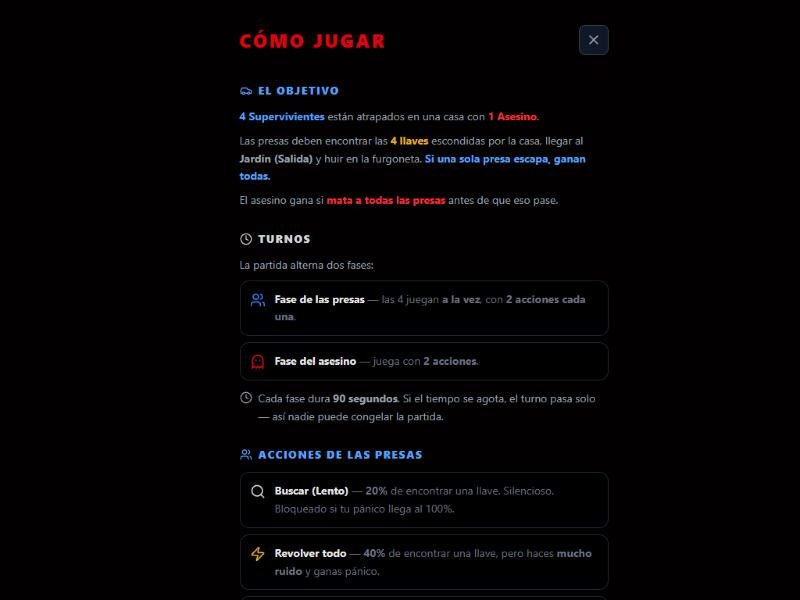
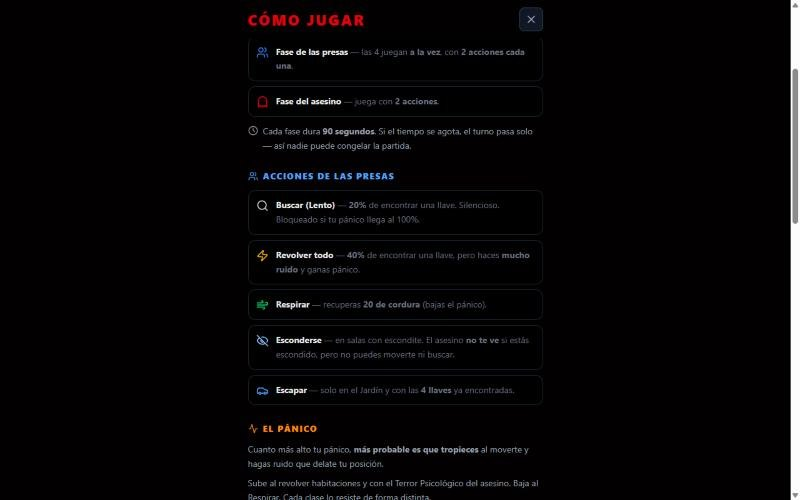
Capturas reales de Slasher, sin recortes, y URL nueva del juego
El juego ya esta renombrado, asi que se sustituyen los recortes por
capturas tomadas directamente de el a 800x500 (16:10 nativo, entran
enteras sin cortar nada):

  titulo.jpg      pantalla de titulo
  menu.jpg        menu principal
  sala.jpg        pantalla online: crear sala o entrar con codigo (nueva)
  como-jugar.jpg  reglas, con las cinco acciones de las presas

portada.jpg pasa a ser la imagen oficial del juego (public/og-image.jpg)
y slasher.png el icono oficial (public/icon-512.png). Se retira casa.jpg,
que era un recorte, y con el el apano de aspect-ratio/object-fit: ya no
hace falta porque todas las capturas comparten proporcion.

La galeria pasa a 2x2 para que las cuatro quepan sin huecos y se vean
al doble de tamano; a una columna por debajo de 700px.

El enlace de jugar apunta ahora a slasher-juego.vercel.app, la direccion
nueva tras el renombrado.

El proyecto del juego no se ha tocado: solo se ha ejecutado en local
para capturar y se han copiado dos imagenes de public/.

diff --git a/Slasher/index.html b/Slasher/index.html
@@ -194,7 +194,12 @@
         .sl-ficha span { color: #a99e9e; font-size: 0.87rem; line-height: 1.6; }
 
         /* Capturas */
-        .sl-galeria { display: grid; grid-template-columns: repeat(auto-fit, minmax(290px, 1fr)); gap: 1.3rem; margin-top: 3rem; }
+        /* Cuatro capturas en 2x2: se ven grandes y la rejilla no deja huecos */
+        .sl-galeria { display: grid; grid-template-columns: repeat(2, 1fr); gap: 1.3rem; margin-top: 3rem; }
+
+        @media (max-width: 700px) {
+            .sl-galeria { grid-template-columns: 1fr; }
+        }
 
         .sl-galeria figure {
             margin: 0;
@@ -204,17 +209,8 @@
             border: 1px solid rgba(224, 31, 40, 0.22);
         }
 
-        /* Las capturas vienen con proporciones distintas: una caja comun las iguala */
-        .sl-galeria img {
-            width: 100%;
-            aspect-ratio: 16 / 10;
-            object-fit: cover;
-            display: block;
-            transition: transform 0.5s ease;
-        }
-
-        /* La pantalla de reglas es texto: cabe entera, con banda negra a los lados */
-        .sl-galeria img.entera { object-fit: contain; }
+        /* Capturas del juego a 800x500: entran enteras, sin recortar nada */
+        .sl-galeria img { width: 100%; height: auto; display: block; transition: transform 0.5s ease; }
         .sl-galeria figure:hover img { transform: scale(1.04); }
 
         .sl-galeria figcaption {
@@ -312,7 +308,7 @@
         <h1 class="sl-titulo">SLASHER</h1>
         <p class="sl-lema">4 presas. 1 asesino. Una casa de la que no se sale.</p>
         <div class="sl-botonera">
-            <a href="https://shlasher.vercel.app" target="_blank" rel="noopener" class="sl-btn sl-btn--jugar">
+            <a href="https://slasher-juego.vercel.app" target="_blank" rel="noopener" class="sl-btn sl-btn--jugar">
                 <i class="fas fa-play"></i> Jugar ahora
             </a>
             <a href="#reglas" class="sl-btn sl-btn--fantasma">
@@ -341,7 +337,7 @@
 
         <div class="sl-galeria">
             <figure>
-                <img src="../img/slasher/casa.jpg" alt="La casa de Slasher bajo una luna llena naranja, con el árbol seco del jardín." loading="lazy">
+                <img src="../img/slasher/titulo.jpg" alt="Pantalla de título de Slasher: el logo en rojo sobre la casa, la luna llena y el cementerio." loading="lazy">
                 <figcaption>La noche en que empieza todo</figcaption>
             </figure>
             <figure>
@@ -349,7 +345,11 @@
                 <figcaption>Menú principal</figcaption>
             </figure>
             <figure>
-                <img class="entera" src="../img/slasher/como-jugar.jpg" alt="Pantalla de instrucciones de Slasher explicando el objetivo, los turnos y las acciones." loading="lazy">
+                <img src="../img/slasher/sala.jpg" alt="Pantalla online de Slasher: campo para el nombre, botón de crear sala nueva y campo de código para unirse." loading="lazy">
+                <figcaption>Sala privada con código</figcaption>
+            </figure>
+            <figure>
+                <img src="../img/slasher/como-jugar.jpg" alt="Pantalla de reglas de Slasher con las cinco acciones de las presas: buscar, revolver, respirar, esconderse y escapar." loading="lazy">
                 <figcaption>Las reglas, dentro del juego</figcaption>
             </figure>
         </div>
@@ -477,7 +477,7 @@
             letras y que entren cuatro más. Se juega en el navegador, en el móvil o en el PC, y se
             puede instalar como aplicación.</p>
         <div class="sl-botonera">
-            <a href="https://shlasher.vercel.app" target="_blank" rel="noopener" class="sl-btn sl-btn--jugar">
+            <a href="https://slasher-juego.vercel.app" target="_blank" rel="noopener" class="sl-btn sl-btn--jugar">
                 <i class="fas fa-play"></i> Jugar ahora
             </a>
             <a href="https://discord.gg/WygZEc54A8" target="_blank" rel="noopener" class="sl-btn sl-btn--fantasma">
